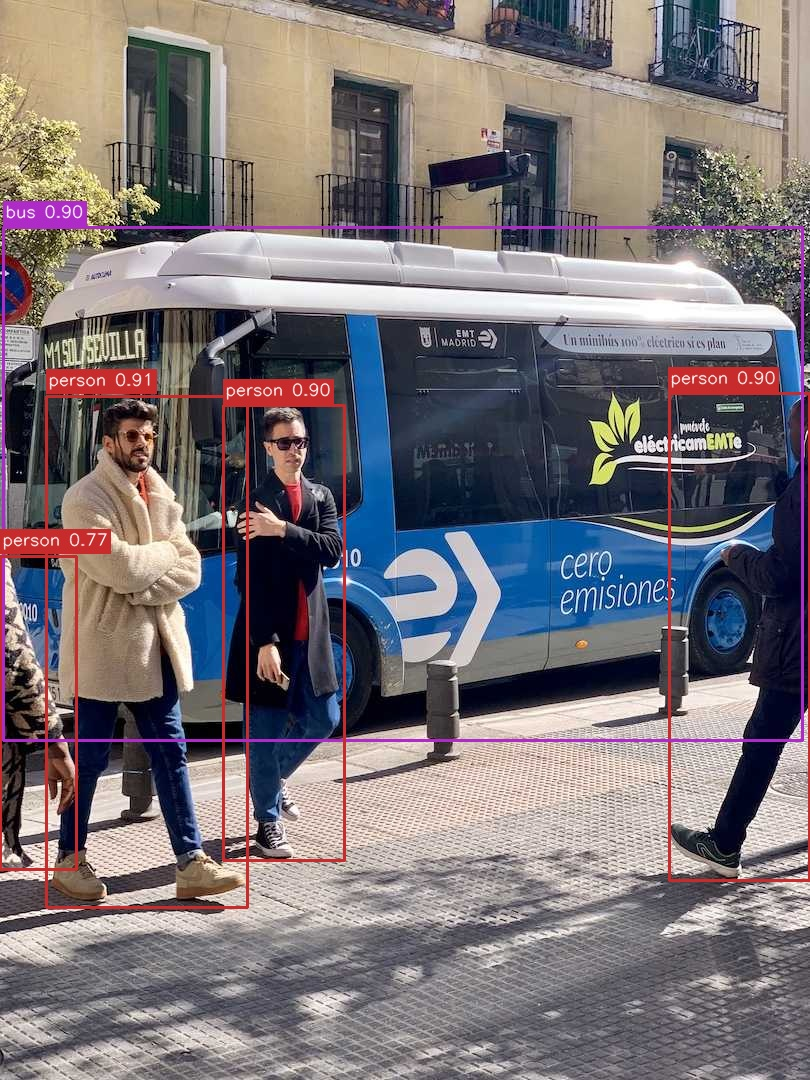
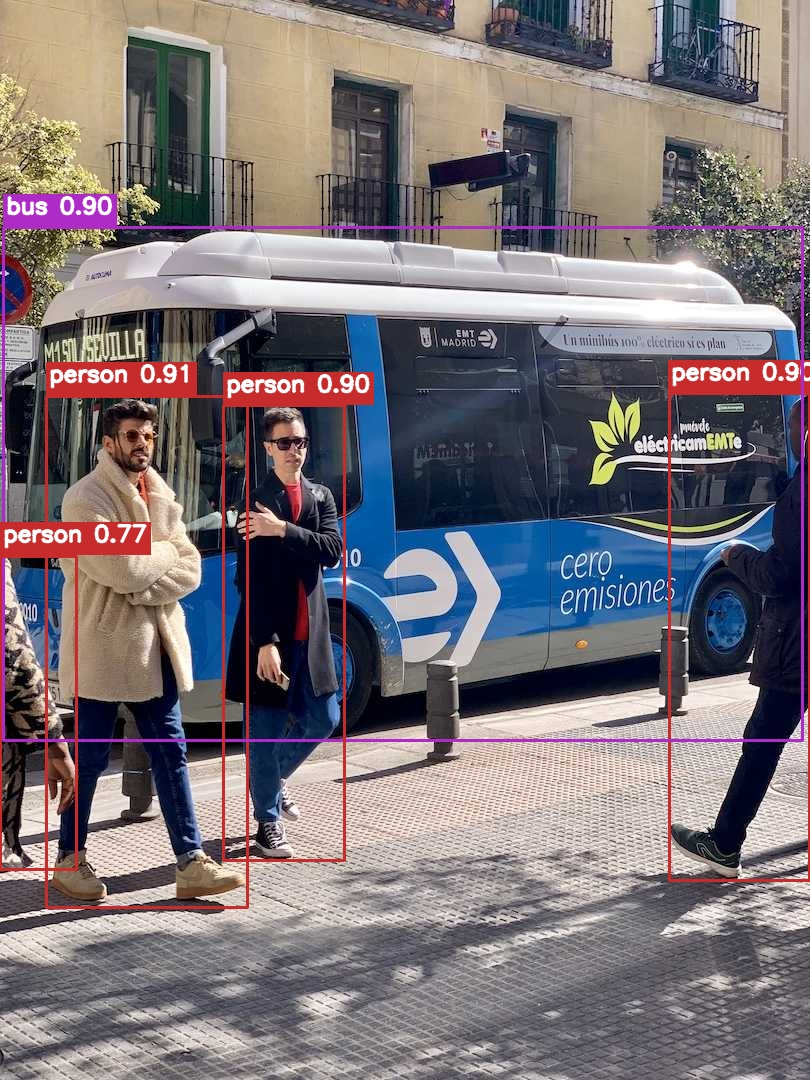
Increase label font size for readability on output images

diff --git a/src/edgecrafter_inference.cpp b/src/edgecrafter_inference.cpp
@@ -239,12 +239,12 @@ void EdgeCrafterInference::draw_results(cv::Mat &image, std::span<const Result> 
 
         const std::string text = label_for(result.class_id) + " " + std::to_string(result.score).substr(0, 4);
         int baseline = 0;
-        const cv::Size text_size = cv::getTextSize(text, cv::FONT_HERSHEY_SIMPLEX, 0.55, 1, &baseline);
+        const cv::Size text_size = cv::getTextSize(text, cv::FONT_HERSHEY_SIMPLEX, 0.75, 2, &baseline);
         cv::Point text_org(static_cast<int>(std::max(0.0F, p1.x)), static_cast<int>(std::max(18.0F, p1.y - 4.0F)));
         cv::rectangle(image, cv::Point(text_org.x, text_org.y - text_size.height - baseline - 4),
-                      cv::Point(text_org.x + text_size.width + 4, text_org.y + 2), color, cv::FILLED);
-        cv::putText(image, text, cv::Point(text_org.x + 2, text_org.y - baseline - 1), cv::FONT_HERSHEY_SIMPLEX, 0.55,
-                    cv::Scalar(255, 255, 255), 1, cv::LINE_AA);
+                      cv::Point(text_org.x + text_size.width + 5, text_org.y + 3), color, cv::FILLED);
+        cv::putText(image, text, cv::Point(text_org.x + 3, text_org.y - baseline - 2), cv::FONT_HERSHEY_SIMPLEX, 0.75,
+                    cv::Scalar(255, 255, 255), 2, cv::LINE_AA);
 
         if (config_.task_type == TaskType::POSE && !result.keypoints.empty()) {
             edgecrafter::processing::draw_keypoints(
